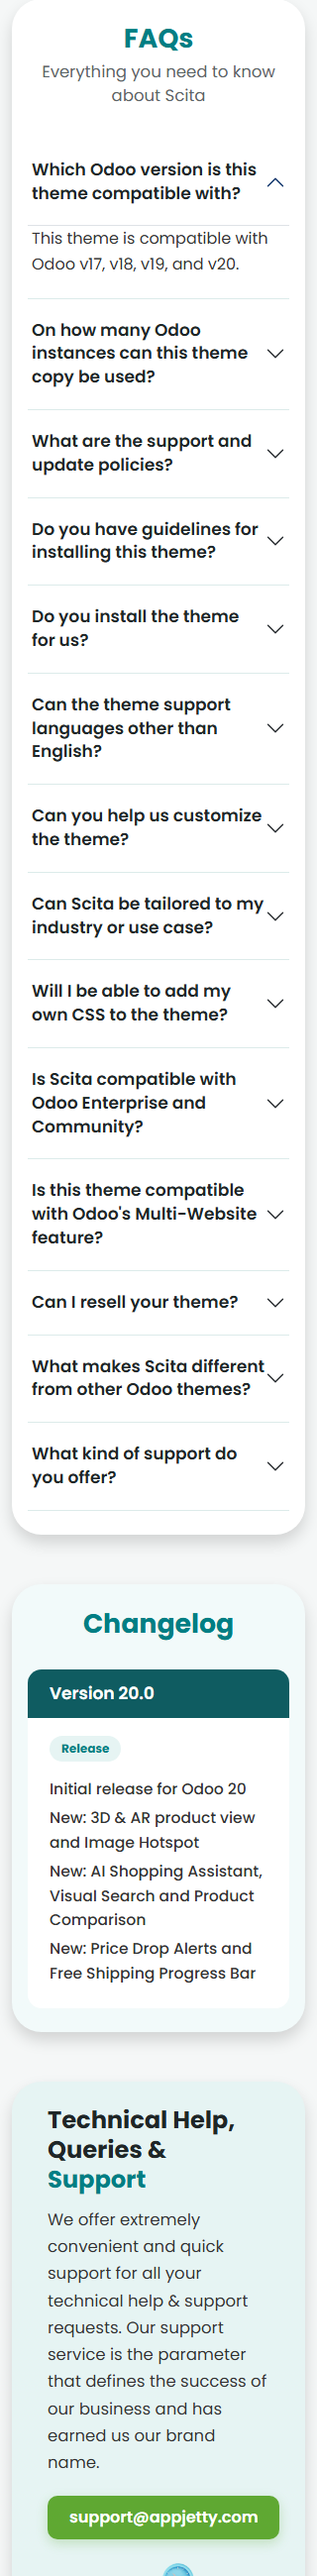
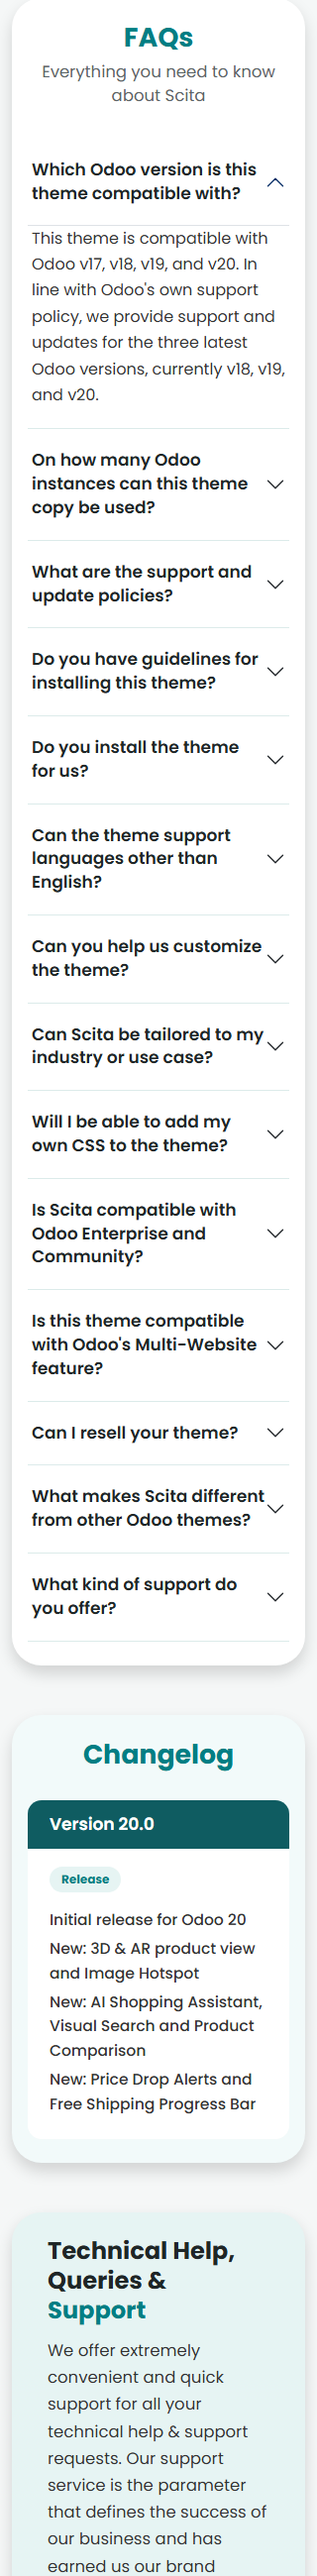
PWA: 80+ for desktop and mobile with speed disclaimer, grocery demo on phone; FAQ: support covers latest three Odoo versions

Changed region(s): [[0.0625, 0.0935, 0.9375, 1.0], [0.8438, 0.1246, 0.875, 0.1558]]

diff --git a/folds/05-pwa-speed.html b/folds/05-pwa-speed.html
@@ -7,7 +7,7 @@
   .top .lead { margin-top: 14px; }
   .body { display: flex; gap: 56px; margin-top: 54px; align-items: center; position: relative; }
   .phonewrap { position: relative; width: 330px; flex: 0 0 330px; margin-left: 20px; }
-  .phone .screen { height: auto; }
+  .phone .screen { height: 566px; }
   .phone .screen img { width: 100%; height: auto; padding-top: 30px; background: #fff; }
   .nav { position: absolute; left: 22px; right: 22px; bottom: 22px; height: 66px; border-radius: 22px; background: #fff; box-shadow: 0 10px 26px rgba(0,0,0,.18);
     display: flex; justify-content: space-around; align-items: center; z-index: 4; font-family: lucide; font-size: 22px; color: #7B8789; }
@@ -23,6 +23,7 @@
   .appicon span { font-size: 14px; color: #6B7576; text-align: center; line-height: 1.4; }
   .speed { flex: 1; padding: 22px 26px; }
   .speed .t { font-size: 18px; font-weight: 700; color: #1F2627; display: flex; align-items: center; gap: 8px; } .speed .t .ic { color: var(--teal); font-size: 19px; }
+  .speed .note { font-size: 12px; line-height: 1.5; color: #7A8486; margin-top: 12px; text-align: center; }
   .gauges { display: flex; justify-content: space-around; margin-top: 14px; }
   .g { text-align: center; }
   .g .ring { position: relative; width: 132px; height: 132px; }
@@ -40,7 +41,7 @@
   </div>
   <div class="body">
     <div class="phonewrap">
-      <div class="phone"><div class="notch"></div><div class="screen"><img src="../assets/shots/electronics_mobile.png" alt="">
+      <div class="phone"><div class="notch"></div><div class="screen"><img src="../assets/shots/grocery_mobile.png" alt="">
       </div></div>
     </div>
     <div class="right">
@@ -51,12 +52,13 @@
         <div class="speed card">
           <div class="t"><span class="ic icon-gauge"></span>Google PageSpeed Score</div>
           <div class="gauges">
-            <div class="g"><div class="ring"><svg viewBox="0 0 120 120"><circle cx="60" cy="60" r="50" fill="none" stroke="#E4EFEA" stroke-width="11"/><circle cx="60" cy="60" r="50" fill="none" stroke="url(#gr)" stroke-width="11" stroke-linecap="round" stroke-dasharray="314.16" stroke-dashoffset="28"/>
-              <defs><linearGradient id="gr" x1="0" x2="1"><stop offset="0" stop-color="#81C54C"/><stop offset="1" stop-color="#5FA832"/></linearGradient></defs></svg><div class="v">90+</div></div>
+            <div class="g"><div class="ring"><svg viewBox="0 0 120 120"><circle cx="60" cy="60" r="50" fill="none" stroke="#E4EFEA" stroke-width="11"/><circle cx="60" cy="60" r="50" fill="none" stroke="url(#gr)" stroke-width="11" stroke-linecap="round" stroke-dasharray="314.16" stroke-dashoffset="62.8"/>
+              <defs><linearGradient id="gr" x1="0" x2="1"><stop offset="0" stop-color="#81C54C"/><stop offset="1" stop-color="#5FA832"/></linearGradient></defs></svg><div class="v">80+</div></div>
               <div class="l"><span class="ic icon-monitor"></span>Desktop Speed</div></div>
-            <div class="g"><div class="ring"><svg viewBox="0 0 120 120"><circle cx="60" cy="60" r="50" fill="none" stroke="#E4EFEA" stroke-width="11"/><circle cx="60" cy="60" r="50" fill="none" stroke="url(#gr)" stroke-width="11" stroke-linecap="round" stroke-dasharray="314.16" stroke-dashoffset="60"/></svg><div class="v">80+</div></div>
+            <div class="g"><div class="ring"><svg viewBox="0 0 120 120"><circle cx="60" cy="60" r="50" fill="none" stroke="#E4EFEA" stroke-width="11"/><circle cx="60" cy="60" r="50" fill="none" stroke="url(#gr)" stroke-width="11" stroke-linecap="round" stroke-dasharray="314.16" stroke-dashoffset="62.8"/></svg><div class="v">80+</div></div>
               <div class="l"><span class="ic icon-smartphone"></span>Mobile App Speed</div></div>
           </div>
+          <p class="note">Scores measured on our demo store. Actual speed may vary with internet connection, browser extensions, module customizations, and other technical factors.</p>
         </div>
       </div>
     </div>

diff --git a/odoo_description/index.html b/odoo_description/index.html
@@ -42,7 +42,7 @@
                    style="font-family:'Poppins', sans-serif; font-size:17px; font-weight:600; color:#1F2627; text-decoration:none; background:transparent; padding:20px 4px; line-height:1.4">Which Odoo version is this theme compatible with?</a>
               </h3>
               <div id="scita_faq_1" class="accordion-collapse collapse show" aria-labelledby="scita_faq_h1" data-bs-parent="#scita_faq">
-                <div class="accordion-body" style="font-family:'Poppins', sans-serif; font-size:16px; line-height:1.65; color:#333333; padding:0 4px 20px">This theme is compatible with Odoo v17, v18, v19, and v20.</div>
+                <div class="accordion-body" style="font-family:'Poppins', sans-serif; font-size:16px; line-height:1.65; color:#333333; padding:0 4px 20px">This theme is compatible with Odoo v17, v18, v19, and v20. In line with Odoo's own support policy, we provide support and updates for the three latest Odoo versions, currently v18, v19, and v20.</div>
               </div>
             </div>
             <div class="accordion-item" style="border:0; border-bottom:1px solid #DCEBEA; background:transparent">
@@ -60,7 +60,7 @@
                    style="font-family:'Poppins', sans-serif; font-size:17px; font-weight:600; color:#1F2627; text-decoration:none; background:transparent; padding:20px 4px; line-height:1.4">What are the support and update policies?</a>
               </h3>
               <div id="scita_faq_3" class="accordion-collapse collapse" aria-labelledby="scita_faq_h3" data-bs-parent="#scita_faq">
-                <div class="accordion-body" style="font-family:'Poppins', sans-serif; font-size:16px; line-height:1.65; color:#333333; padding:0 4px 20px">Please refer to our support policy <a href="https://www.appjetty.com/support-policy.htm" target="_blank" style="color:#017E84; font-weight:600">https://www.appjetty.com/support-policy.htm</a></div>
+                <div class="accordion-body" style="font-family:'Poppins', sans-serif; font-size:16px; line-height:1.65; color:#333333; padding:0 4px 20px">We support the three latest Odoo versions (currently v18, v19, and v20). For full details, please refer to our support policy <a href="https://www.appjetty.com/support-policy.htm" target="_blank" style="color:#017E84; font-weight:600">https://www.appjetty.com/support-policy.htm</a></div>
               </div>
             </div>
             <div class="accordion-item" style="border:0; border-bottom:1px solid #DCEBEA; background:transparent">

diff --git a/odoo_description/preview.html b/odoo_description/preview.html
@@ -47,7 +47,7 @@
                    style="font-family:'Poppins', sans-serif; font-size:17px; font-weight:600; color:#1F2627; text-decoration:none; background:transparent; padding:20px 4px; line-height:1.4">Which Odoo version is this theme compatible with?</a>
               </h3>
               <div id="scita_faq_1" class="accordion-collapse collapse show" aria-labelledby="scita_faq_h1" data-bs-parent="#scita_faq">
-                <div class="accordion-body" style="font-family:'Poppins', sans-serif; font-size:16px; line-height:1.65; color:#333333; padding:0 4px 20px">This theme is compatible with Odoo v17, v18, v19, and v20.</div>
+                <div class="accordion-body" style="font-family:'Poppins', sans-serif; font-size:16px; line-height:1.65; color:#333333; padding:0 4px 20px">This theme is compatible with Odoo v17, v18, v19, and v20. In line with Odoo's own support policy, we provide support and updates for the three latest Odoo versions, currently v18, v19, and v20.</div>
               </div>
             </div>
             <div class="accordion-item" style="border:0; border-bottom:1px solid #DCEBEA; background:transparent">
@@ -65,7 +65,7 @@
                    style="font-family:'Poppins', sans-serif; font-size:17px; font-weight:600; color:#1F2627; text-decoration:none; background:transparent; padding:20px 4px; line-height:1.4">What are the support and update policies?</a>
               </h3>
               <div id="scita_faq_3" class="accordion-collapse collapse" aria-labelledby="scita_faq_h3" data-bs-parent="#scita_faq">
-                <div class="accordion-body" style="font-family:'Poppins', sans-serif; font-size:16px; line-height:1.65; color:#333333; padding:0 4px 20px">Please refer to our support policy <a href="https://www.appjetty.com/support-policy.htm" target="_blank" style="color:#017E84; font-weight:600">https://www.appjetty.com/support-policy.htm</a></div>
+                <div class="accordion-body" style="font-family:'Poppins', sans-serif; font-size:16px; line-height:1.65; color:#333333; padding:0 4px 20px">We support the three latest Odoo versions (currently v18, v19, and v20). For full details, please refer to our support policy <a href="https://www.appjetty.com/support-policy.htm" target="_blank" style="color:#017E84; font-weight:600">https://www.appjetty.com/support-policy.htm</a></div>
               </div>
             </div>
             <div class="accordion-item" style="border:0; border-bottom:1px solid #DCEBEA; background:transparent">

diff --git a/tools/build_page.py b/tools/build_page.py
@@ -30,11 +30,12 @@ FONT = "font-family:'Poppins', sans-serif"
 # FAQ: live-page text with the client's fixes (doc + Odoo 20 decision)
 faq = json.load(open(ROOT / "tools" / "faq_source.json", encoding="utf8"))
 fix = {
-    "This theme is compatible with Odoo V17,V18 and V19.": "This theme is compatible with Odoo v17, v18, v19, and v20.",
+    "This theme is compatible with Odoo V17,V18 and V19.": "This theme is compatible with Odoo v17, v18, v19, and v20. In line with Odoo's own support policy, we provide support and updates for the three latest Odoo versions, currently v18, v19, and v20.",
     "Is this theme compatible with Odoo's Multi Website Feature?": "Is this theme compatible with Odoo's Multi-Website feature?",
 }
 def clean(t):
     t = fix.get(t, t)
+    t = t.replace('Please refer to our support policy ', 'We support the three latest Odoo versions (currently v18, v19, and v20). For full details, please refer to our support policy ')
     t = t.replace("Yes, our theme scita is compatible with Odoo's Multi Website Feature. You can add our theme scita for multiple websites if they all are on Odoo v12",
                   "Yes, our theme Scita is compatible with Odoo's Multi-Website feature. You can add our theme Scita for multiple websites if they all are on Odoo v17, v18, v19, or v20")
     t = t.replace('<span style="color:#00008B; font-weight:bold"> https://www.appjetty.com/support-policy.htm</span>',
